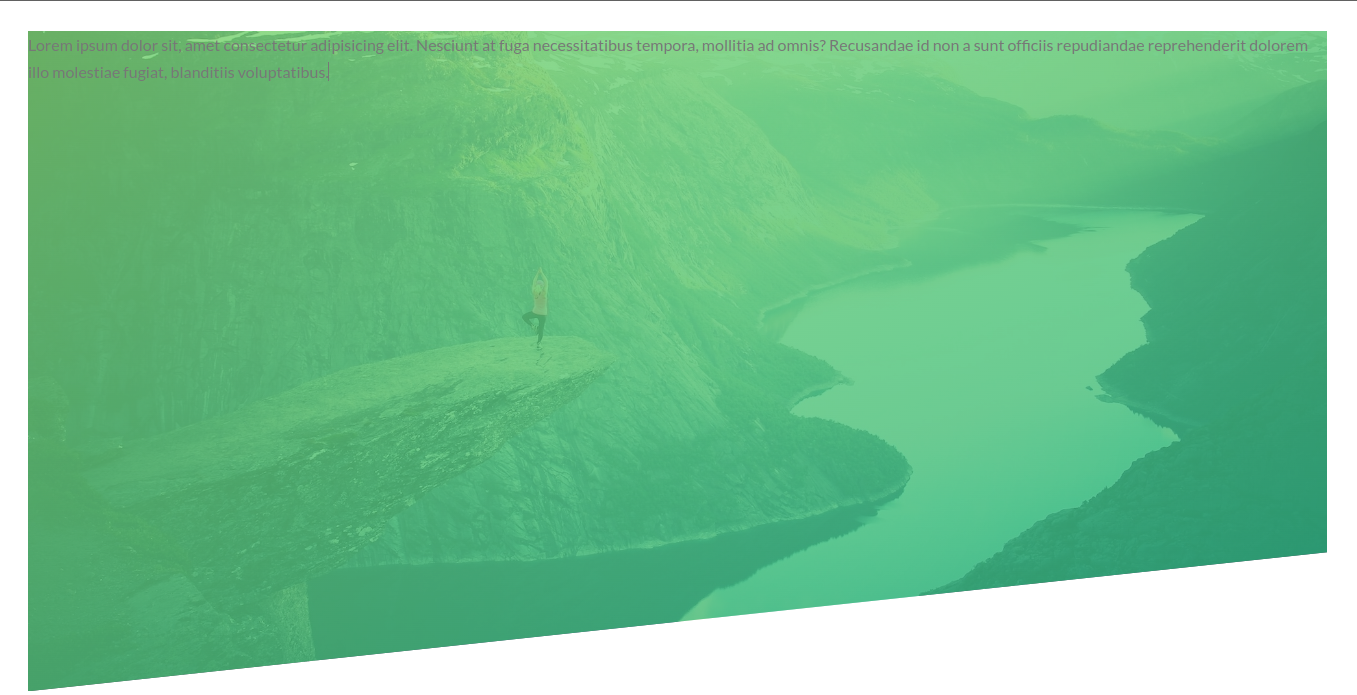
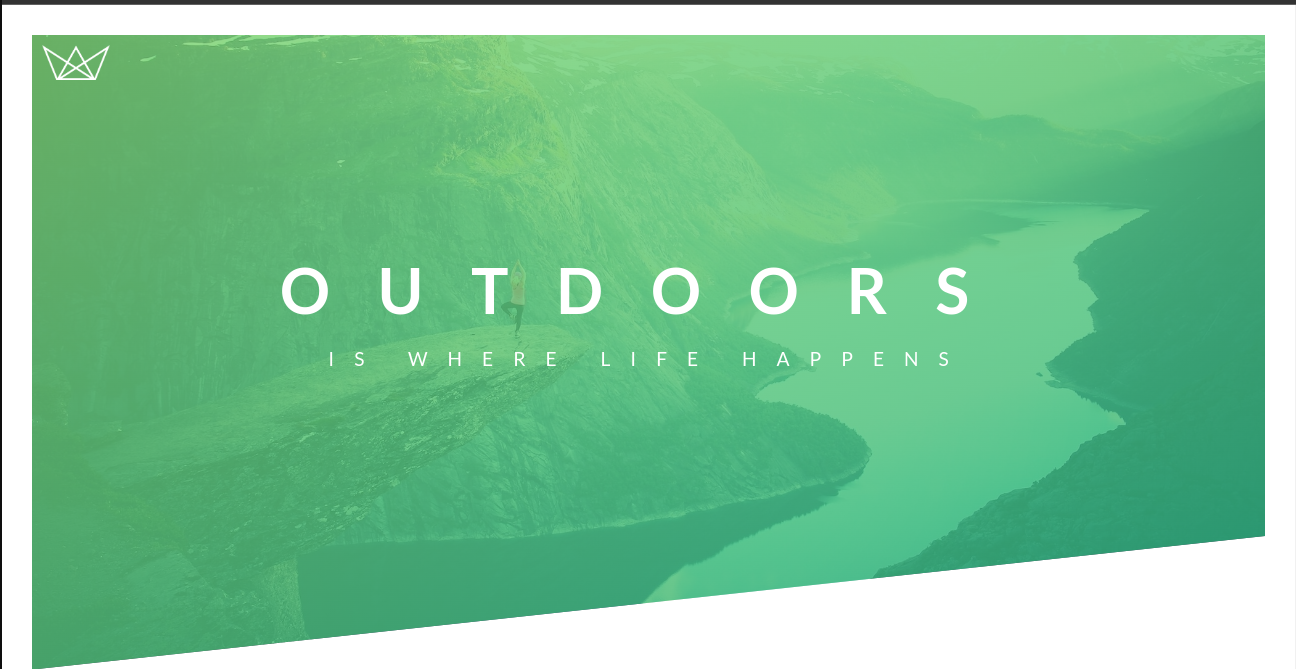
8. Creating Cool CSS Animations

diff --git a/css/style.css b/css/style.css
@@ -69,6 +69,7 @@ body {
 .heading-primary {
 	color: #fff;
 	text-transform: uppercase;
+	backface-visibility: hidden;
 }
 
 .heading-primary-main {
@@ -76,6 +77,9 @@ body {
 	font-size: 3.9rem;
 	font-weight: 700;
 	letter-spacing: 3rem;
+	animation-name: moveInLeft;
+	animation-duration: 1s;
+	animation-timing-function: ease-in;
 }
 
 .heading-primary-sub {
@@ -83,4 +87,35 @@ body {
 	font-size: 1.2rem;
 	font-weight: 400;
 	letter-spacing: 1.25rem;
+	animation-name: moveInRight;
+	animation-duration: 1s;
+	animation-timing-function: ease-in;
+}
+
+@keyframes moveInLeft {
+	0% {
+		opacity: 0;
+		transform: translateX(-100px) rotate(-5deg);		
+	}
+	90% {
+		transform: translateX(10px);				
+	}
+	100% {
+		opacity: 1;
+		transform: translateX(0);		
+	}
+}
+
+@keyframes moveInRight {
+	0% {
+		opacity: 0;
+		transform: translateX(100px) rotate(5deg);		
+	}
+	90% {
+		transform: translateX(-10px);				
+	}
+	100% {
+		opacity: 1;
+		transform: translateX(0);		
+	}
 }
